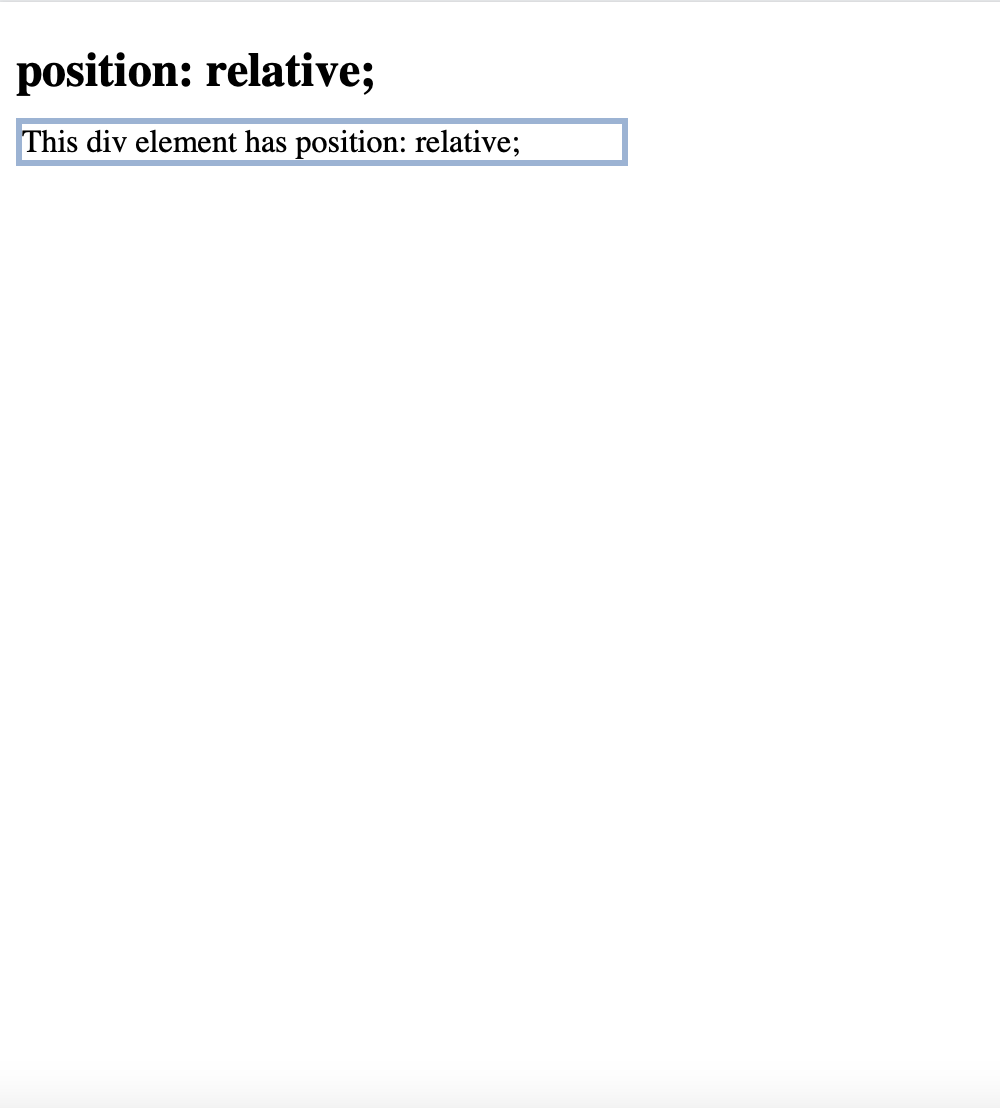
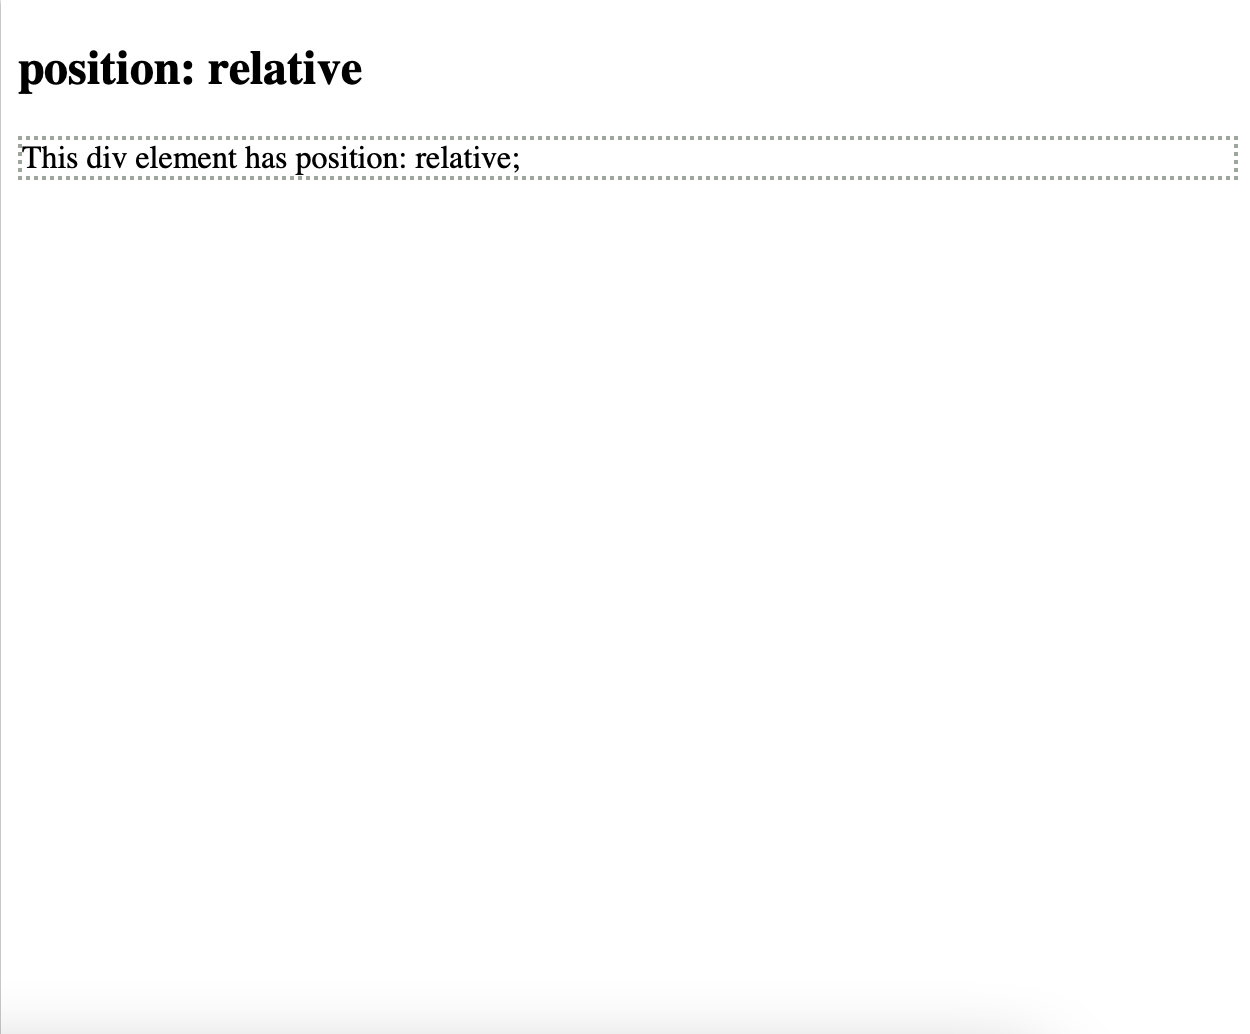
Additional updates

Changed region(s): [[0.0, 0.0309, 0.651, 0.1857], [0.961, 0.1238, 0.992, 0.1857]]

diff --git a/week 4.html b/week 4.html
@@ -35,98 +35,96 @@
     position: static | fixed | relative | absolute | sticky;
 }
 </pre>
+
+            <center><img src = "position property.png" alt = "Position Property options" width = "1000" height = "400"></center>
             <br>
 
             <h4>Position: Static</h4>
             <p>An element is positioned to static by default so there is no need to specify if unless you want to add 'bottom', 'top', 'left' and 'right' attributes to the element. An element with a static position will flow the normal flow of the page. 
 <pre>
-example.static {
+div.static {
     position: static;
-    border: 3px solid rgb(151, 179, 214);
+    border: 2px dotted #9da59f;
 }
 
 &ltbody&gt
+    &lth2&gtposition: static&lt/h2&gt
 
     &ltdiv class = "static"&gt
     This div element has position: static;
     &lt/div&gt
 &lt/body&gt
 </pre>
-
-            <img id = "image" src = "static.png" alt = "Static Example" width = "400">
-            </p>
-
-            <h4>Position: Fixed</h4>
-            <p> An element with a fixed postion is anchored to the viewport and doesn't move when scrolling throught a page. It is important to use the 'top', 'bottom', 'left', and 'right' properties to position the element in the correct spot on the viewport. Another important thing to consider with a fixed position element is that the element won't take up space in the flow. It almost resides on top of everything else which can be good for things such as navigation bars. 
-<pre>
-example.fixed {
-    position: fixed;
-    border: 3px solid rgb(151, 179, 214);
-}
-                
-&ltbody&gt
-                
-    &ltdiv class = "fixed"&gt
-        This div element has position: fixed;
-    &lt/div&gt
-&lt/body&gt
-</pre>
-                
-            <img id = "image" src = "fixed.png" alt = "Fixed Example" width = "400">
-            </p>
-
             <h4>Position: Relative</h4>
             <p> An element with relative positioning is offset compared to where it would be placed in normal flow. That is, the only way to change the positioning when its relative is by setting the 'bottom', 'top', 'left', and 'right' attributes. Other content's positioning will not be impacted so this positioning option can cause excessive white space if not used in the correct way.
 <pre>
-example.relative {
+div.relative {
     position: relative;
-    border: 3px solid rgb(151, 179, 214);
+    border: 2px dotted #9da59f;
 }
                 
-&ltbody&gt
-                
+&ltbody&gt 
+    &lth2&gtposition: relative&lt/h2&gt  
+
     &ltdiv class = "relative"&gt
         This div element has position: relative;
     &lt/div&gt
 &lt/body&gt
 </pre>
-            <img id = "image" src = "relative.png" alt = "Relative Example" width = "400px">
             </p>
 
             <h4>Position: Absolute</h4>
             <p> Absolute positioning suggests that an element is positioned relative to the nearest positioned ancestor. These elements are not a part of the normal flow of the page and can overlap with elements that are apart of the normal page flow. If there are no positioned ancestors for the element to latch onto, the element might move along page with the normal flow.
 <pre>
-example.absolute {
+div.absolute {
     position: absolute;
-    border: 3px solid rgb(151, 179, 214);
+    border: 2px dotted #9da59f;
 }
                                 
-&ltbody&gt
-                                
+&ltbody&gt  
+    &lth2&gtposition: absolute&lt/h2&gt    
+
     &ltdiv class = "absolute"&gt
         This div element has position: absolute;
     &lt/div&gt
 &lt/body&gt
 </pre>
-            <img id = "image" src = "absolute.png" alt = "Absolute Example" width = "400px">
-            </p>
+        </p>
+
+        <h4>Position: Fixed</h4>
+        <p> An element with a fixed postion is anchored to the viewport and doesn't move when scrolling throught a page. It is important to use the 'top', 'bottom', 'left', and 'right' properties to position the element in the correct spot on the viewport. Another important thing to consider with a fixed position element is that the element won't take up space in the flow. It almost resides on top of everything else which can be good for things such as navigation bars. 
+<pre>
+div.fixed {
+position: fixed;
+border: 2px dotted #9da59f;
+}
+            
+&ltbody&gt   
+&lth2&gtposition: fixed&lt/h2&gt
+
+&ltdiv class = "fixed"&gt
+    This div element has position: fixed;
+&lt/div&gt
+&lt/body&gt
+</pre>
+        </p>
 
             <h4>Position: Sticky</h4>
             <p> Sticky positioning means that an element is positioned in relation to the user's scrolling position. This typically means that it toggles between fixed and relative based on the scroll positioning. The element basically sticks in place while you move through the page. Sticky and fixed have the relatively same concept as they maintain the positioning of the element while other elements move with the scrolling of the page.
 <pre>
-example.sticky {
+div.sticky {
     position: sticky;
-    border: 3px solid rgb(151, 179, 214);
+    border: 2px dotted #9da59f;
 }
                                                 
-&ltbody&gt
-                                                
+&ltbody&gt   
+    &lth2&gtposition: sticky&lt/h2&gt
+
     &ltdiv class = "sticky"&gt
         This div element has position: sticky;
     &lt/div&gt
 &lt/body&gt
 </pre>
-            <img id = "image" src = "sticky.png" alt = "Sticky Example" width = "400px">
             </p>
 
         <h4>References</h4>

diff --git a/week 2.html b/week 2.html
@@ -29,15 +29,11 @@
 
         <p>After reading Chapter 3 and 4 this weekend, I was still a little confused on why the box model was so prominent in CSS coding and style. I decided to use this as the focal topic of my blog post this week to give myself a better understanding of how to use it. The 'Box Model' refers to the idea that everything is CSS as a box around it, allowing you to create layouts and ensure alignment between elements. There are two types boxes: block boxes and inline boxes. Before reading this article, I was unsure what the differences were but I have learned that it impacts the way the box interacts with other boxes on the page as well as how the page layout is constructed. This is obviously an important component when it comes to creating an aesthically pleasing website since we can not have elements overlapping or with tons of extra space surronding them. One major difference is that block boxes will break to a new line and inline boxes will not. Both of these features can be useful for different circumstances. Another point that helped me understand this concept further was that each HTML tag has a default box type. Some examples are &lth1&gt and &ltp&gt which are block box type and &lta&gt, &ltspan&gt, and &ltem&gt which are inline type. This idea that every element has a default type can help in understanding why each interact with other tags/elements like they do. Although each has a default type, there is a command in CSS to change the default type so that the element reacts in a different way. </p>
 
-<pre>
-element1 {
-    display: inline;
-    color: red;
-    font-size: 10px;
-}
-</pre>
+        <center><img src = "display.png" alt = "Inline, Block and Inline-block" width = "800"></center>
+
         <p>The 'display' field can be used to change a default box type to whatever one fits your needs. There is actaully a third common option for a display type which is inline-block. Inline-block allows the element to have the qualities of an inline element but also allows height and width properties to be applied to it. I know this can be confusing to think about but looking at the following three examples showing the difference display proporty options on the same text might make it clearer.</p>
-        <br>    
+        
+        <h4>Display: Inline</h4>
 <pre>
 &lthtml&gt
     &lthead&gt
@@ -61,9 +57,8 @@ element1 {
 &lt/html&gt
         
 </pre>
-
-            <img id = "image" src = "inlineex.png" alt = "Inline Text Example" width = 400>
-            <br>
+            <img id = "image" src = "inlineex.png" alt = "Inline Example" width = "500">
+            <h4>Display: Block</h4>
 <pre>
 &lthtml&gt
     &lthead&gt
@@ -87,9 +82,8 @@ element1 {
 &lt/html&gt
         
 </pre>  
-
-            <img id = "image" src = "blockex.png" alt = "Block Text Example" width = 400>
-            <br>  
+            <img id = "image" src = "blockex.png" alt = "Block Example" width = "500">
+            <h4>Display: Inline-block</h4>
 <pre>
     &lthtml&gt
         &lthead&gt
@@ -111,12 +105,13 @@ element1 {
     
         &lt/body&gt
     &lt/html&gt
-            
-    </pre>  
-    
-                <img id = "image" src = "inlineblockex.png" alt = "Inline-Block Text Example" width = 400>
-                <br>        
-        <p>As you can see, there is a slight difference in the amount of space between the top of the 'box' and the actual text which is determined by the display type. Those are the three most common display property options but there are actually many more. In the Reference section at the bottom, you can look at the link labeled 'Example Display Problems' to see all the other property options available in CSS.</p>
+
+</pre>  
+        <img id = "image" src = "inlineblockex.png" alt = "Inline-Block Example" width = "500">
+
+        <br>
+        
+        <p>As you can see from the examples above, there is a slight different in each of the displays recognizable by the amount of space surrounding the text. It is important to test out each display to see which works best with the content being displayed for the best option.</p>
 
         <h4>References</h4>
 

diff --git a/week 5.html b/week 5.html
@@ -54,7 +54,7 @@
 }
 </pre>
 
-            <img src = "media-queries.png" alt = "Media Queries Example" width = "400" height = "250">
+            <img src = "media-queries.png" alt = "Media Queries Example" width = "600" height = "400">
         </div>
         This code above states that depending on the size of the screen (desktop, tablet or moblie phone), reorganize the elements associated with the .element property in the specified manner. As you can, being able to restructre a webpage to fit the screen size would be a desirable feature for many designers. There is a standard formula for how to set up a media query regardless of what the query will do. Below is a good formula for writing media queries and can be altered to do numerous things:
 

diff --git a/style.css b/style.css
@@ -83,7 +83,7 @@ h4 {
     margin-right: 40px;
   }
   
-  .main{
+  .main {
     transition: margin-left .5s;
     padding: 20px;
     margin-top: 40px;
